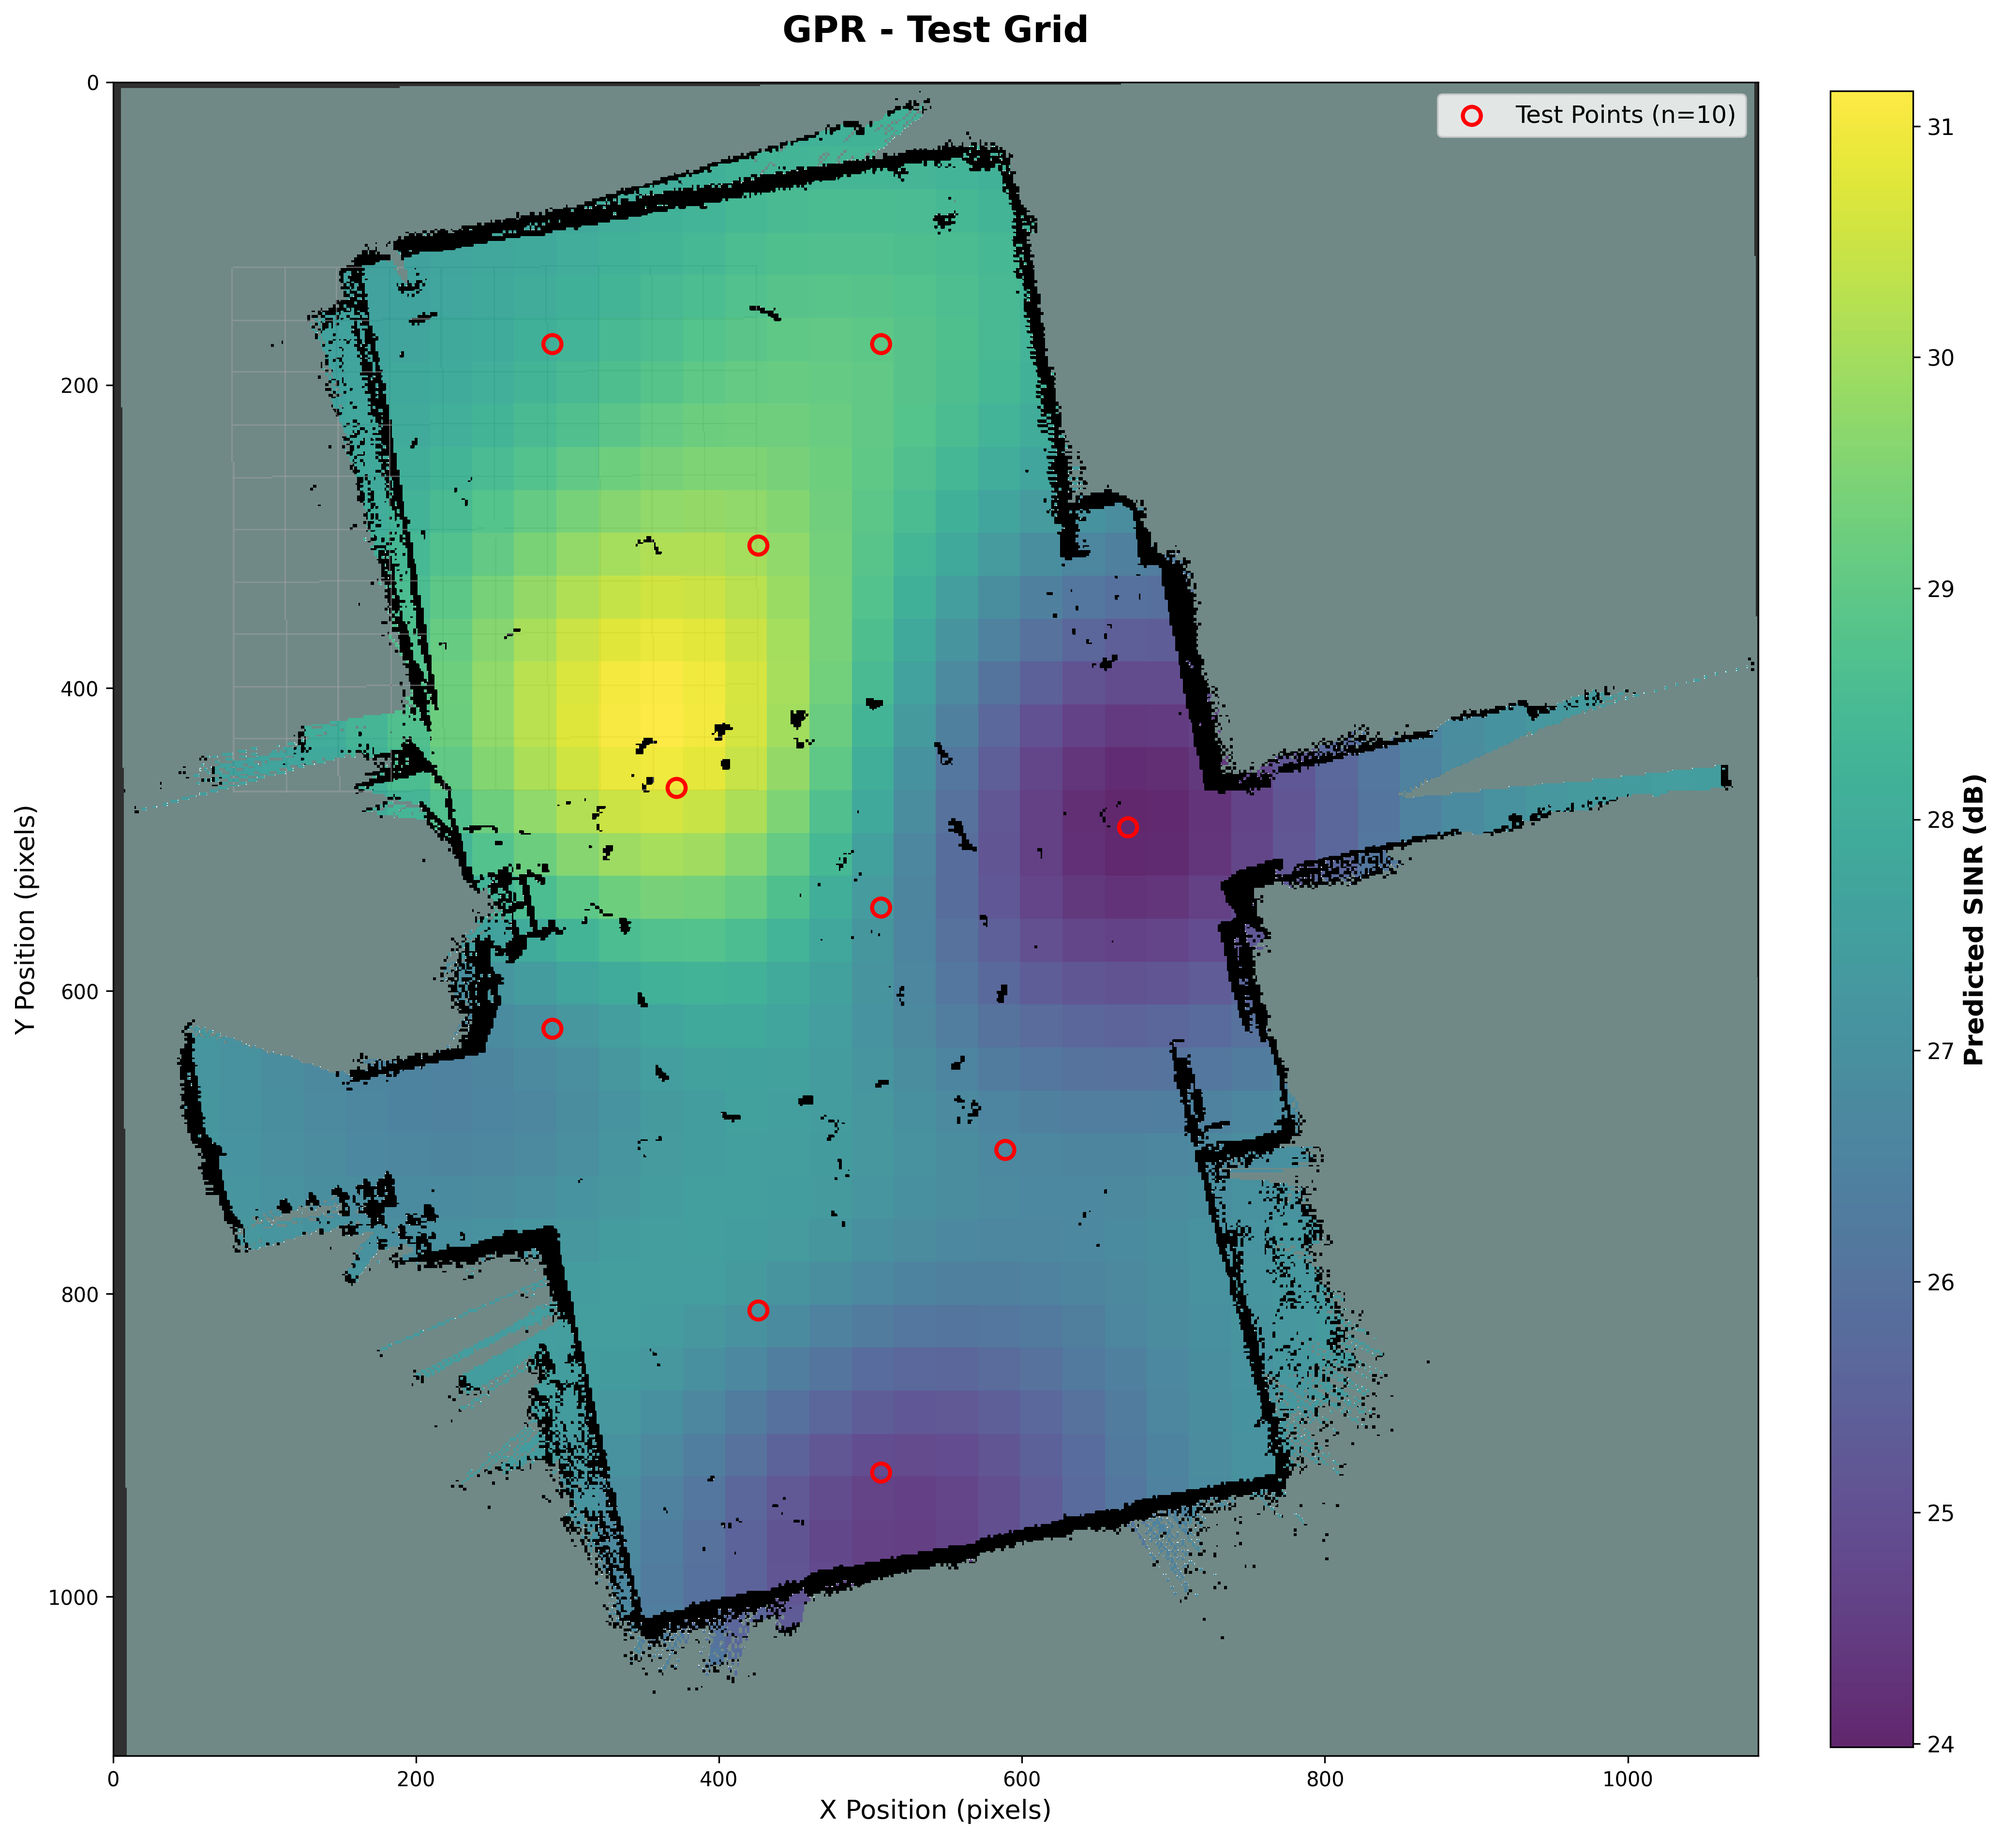
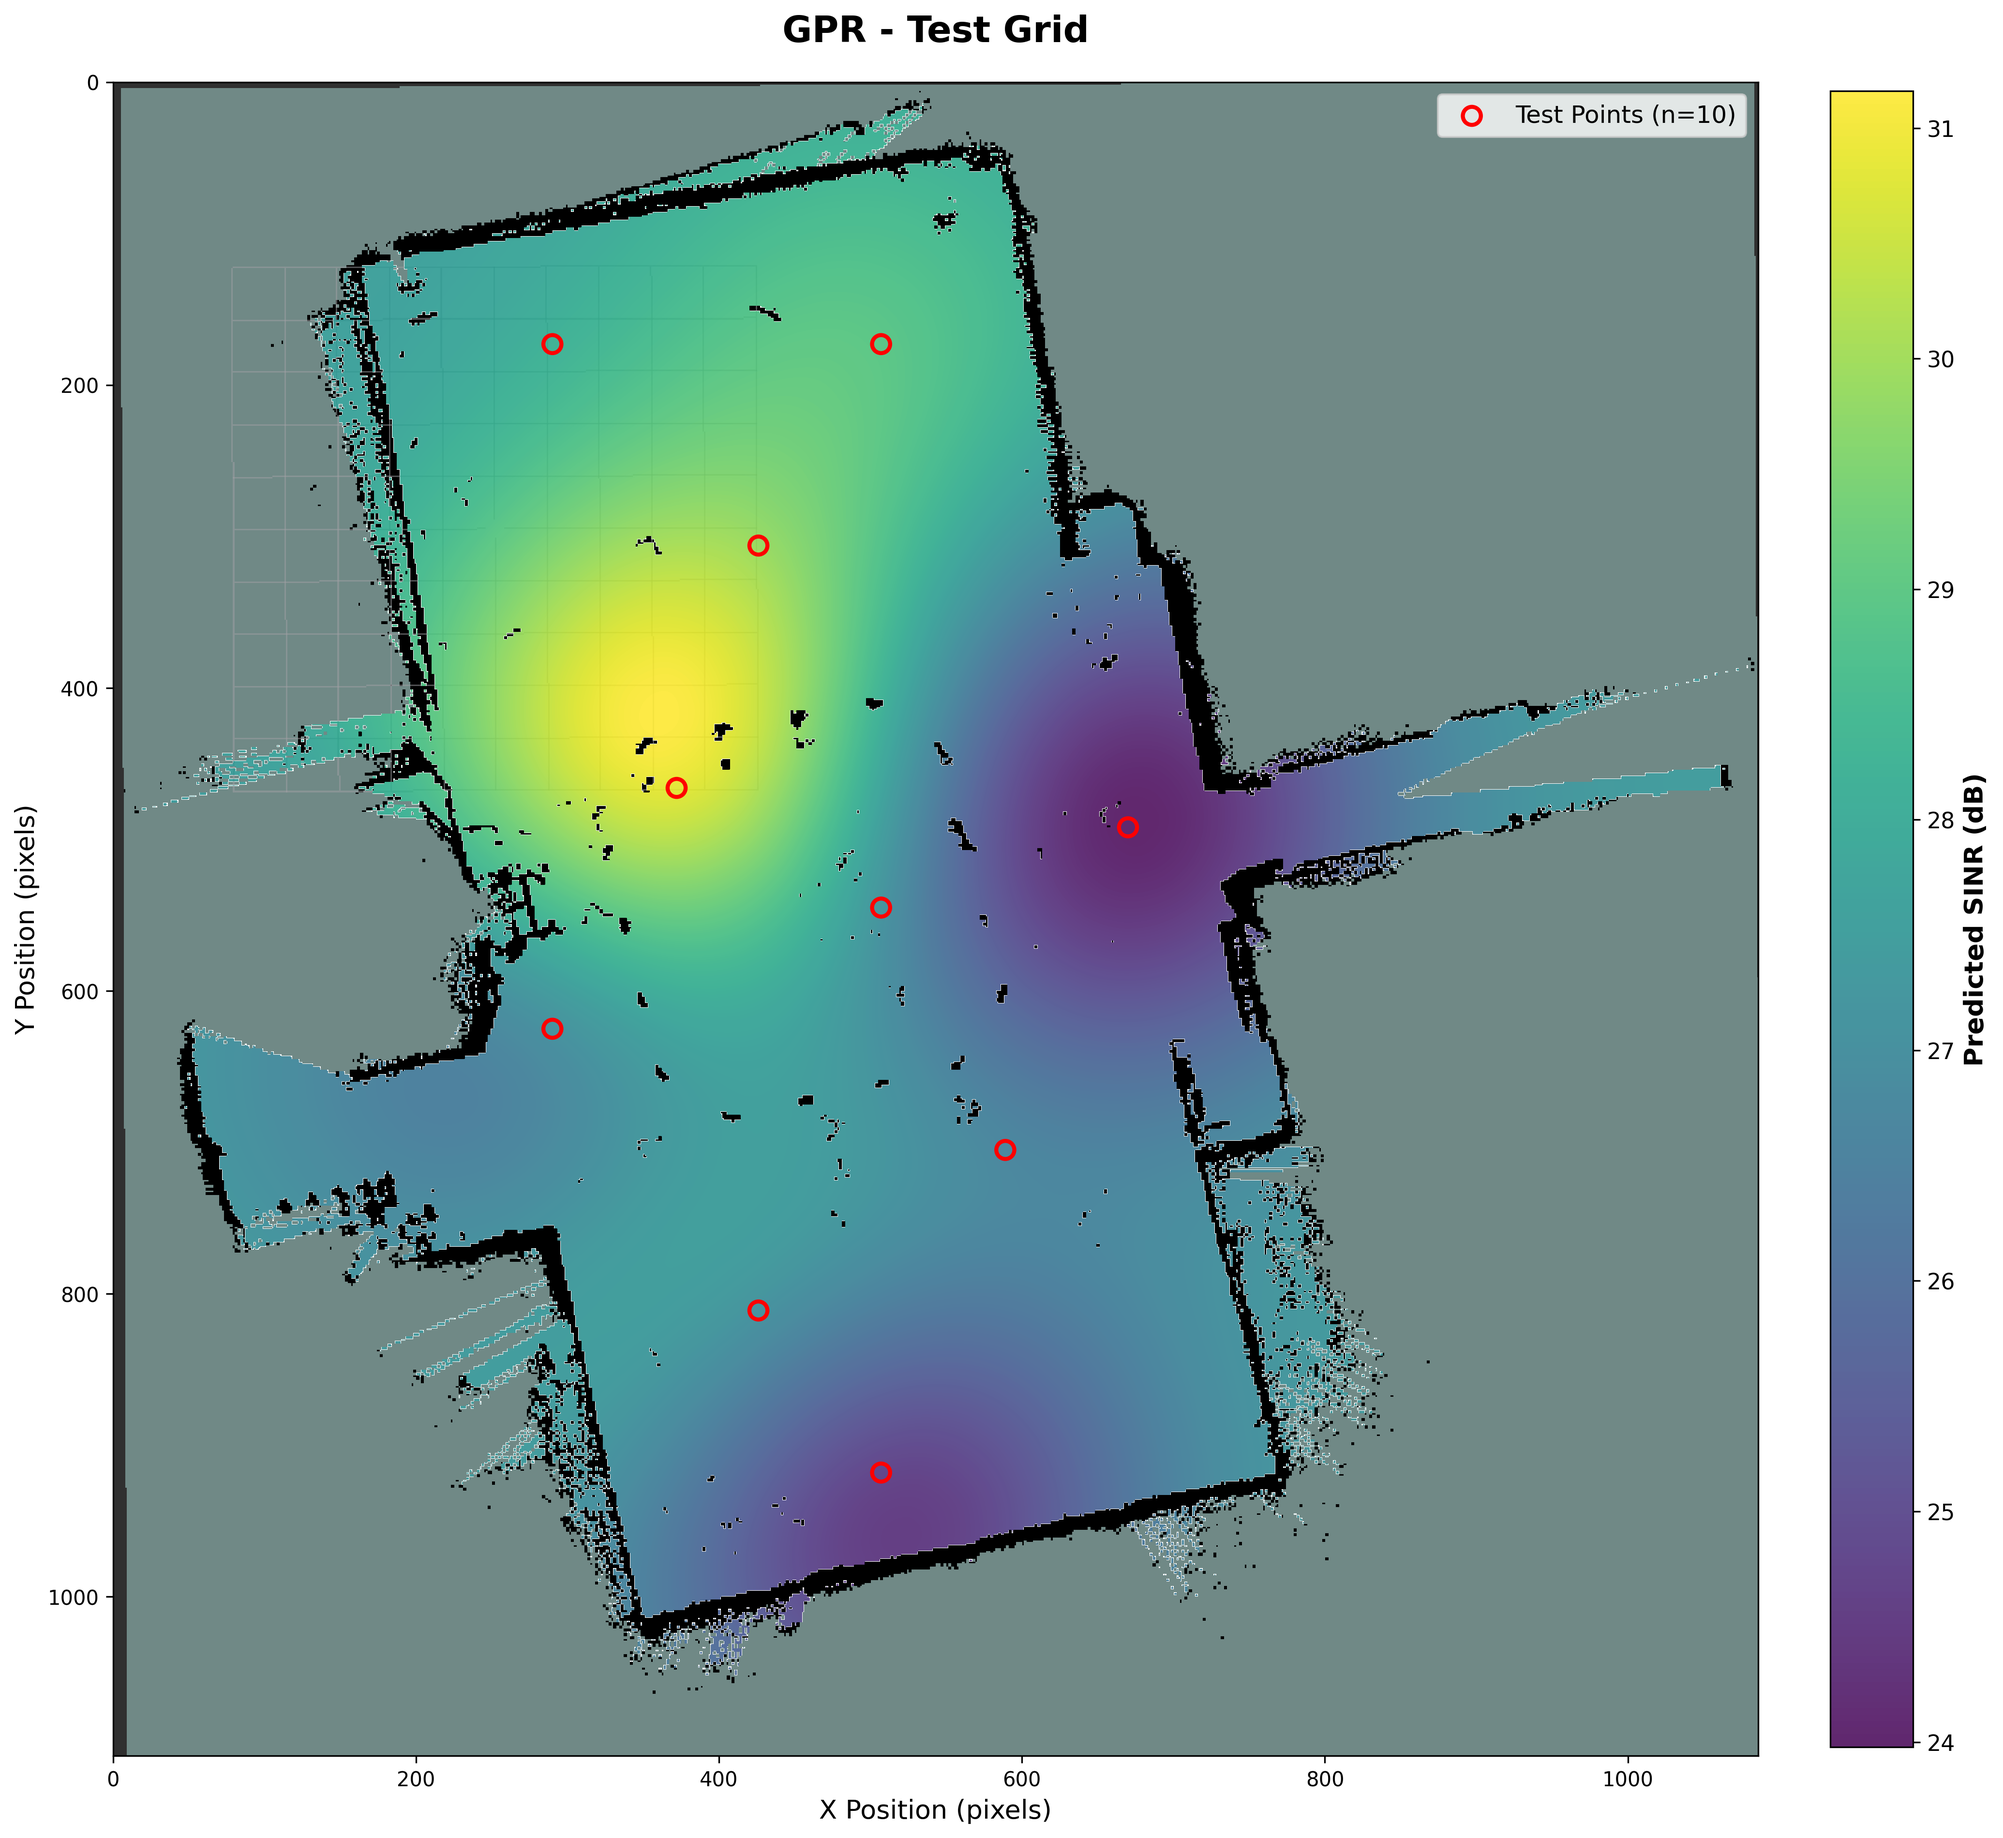
Add files via upload

Changed region(s): [[0.3739, 0.3727, 0.4051, 0.4349], [0.6232, 0.7455, 0.6543, 0.7765]]

diff --git a/Final_Visualisations/Maps_Final.py b/Final_Visualisations/Maps_Final.py
@@ -19,18 +19,68 @@ print(f"  ✓ Map size: {img_w} x {img_h} pixels")
 
 # Define training and test points directly (in pixel coordinates)
 train_points_pixel = np.array([
-    [568, 923], [712, 883], [544, 844], [352, 743], [676, 718],
-    [372, 696], [599, 633], [321, 574], [724, 497], [782, 482],
-    [838, 470], [326, 448], [535, 407], [427, 408], [282, 396],
-    [679, 370], [436, 328], [577, 301], [257, 257], [227, 159],
-    [539, 113], [494, 742], [427, 914], [333, 162], [601, 533],
-    [504, 223], [428, 119], [641, 811], [346, 844], [360, 263]
+    [562, 918],
+    [725, 891],
+    [534, 838],
+    [344, 731],
+    [670, 705],
+    [372, 705],
+    [589, 625],
+    [317, 572],
+    [725, 492],
+    [779, 492],
+    [833, 466],
+    [317, 439],
+    [534, 412],
+    [426, 412],
+    [290, 386],
+    [670, 359],
+    [426, 333],
+    [589, 306],
+    [263, 253],
+    [236, 146],
+    [534, 120],
+    [507, 731],
+    [426, 918],
+    [344, 173],
+    [589, 545],
+    [507, 226],
+    [426, 120],
+    [643, 811],
+    [344, 838],
+    [372, 253]
 ])
+
 
 test_points_pixel = np.array([
     [372, 466], [670, 492], [507, 545], [589, 705], [426, 811],
     [507, 918], [290, 625], [290, 173], [507, 173], [426, 306]
 ])
+
+train_points_pixel_neel = np.array([
+    [568, 923],
+    [712, 883],
+    [544, 844],
+    [352, 743],
+    [676, 718],
+    [372, 696],
+    [599, 633],
+    [321, 574],
+    [724, 497],
+    [782, 482],
+    [838, 470],
+    [326, 448],
+    [535, 407],
+    [427, 408],
+    [282, 396],
+    [679, 370],
+    [436, 328],
+    [577, 301],
+    [257, 257],
+    [227, 159],
+    [539, 113]
+])
+
 
 print(f"  ✓ Training points: {len(train_points_pixel)}")
 print(f"  ✓ Test points: {len(test_points_pixel)}")
@@ -42,7 +92,8 @@ train_pixel_x = train_points_pixel[:, 0]
 train_pixel_y = train_points_pixel[:, 1]
 test_pixel_x = test_points_pixel[:, 0]
 test_pixel_y = test_points_pixel[:, 1]
-
+train_pixel_x_neel = train_points_pixel_neel[:, 0]
+train_pixel_y_neel = train_points_pixel_neel[:, 1]
 # ========== STEP 2: Load prediction grids for all models ==========
 print("\n[2/8] Loading prediction grids...")
 
@@ -261,7 +312,7 @@ print("  ✓ Pixel coordinates added")
 print("\n[6/8] Creating interpolation function...")
 
 def create_interpolated_map(df, img_w, img_h):
-    """Create interpolated heatmap using NEAREST neighbor"""
+    
     if df is None:
         return None
     
@@ -282,7 +333,7 @@ def create_interpolated_map(df, img_w, img_h):
         points, 
         values, 
         (grid_x, grid_y), 
-        method='nearest',
+        method='cubic',
         fill_value=np.nan
     )
     return sinr_interpolated
@@ -329,7 +380,7 @@ print("  ✓ Masks applied")
 # ========== STEP 8: Visualization function ==========
 print("\n[8/8] Generating visualizations...")
 
-def create_visualization(sinr_masked, title, filename, points_x, points_y, point_label, vmin=None, vmax=None):
+def create_visualization(sinr_masked, title, filename, points_x, points_y, point_label, vmin=None, vmax=None, cmap=None):
     """Create visualization with specified measurement points"""
     if sinr_masked is None:
         print(f"  ⊘ Skipped: {filename} (no data)")
@@ -337,6 +388,7 @@ def create_visualization(sinr_masked, title, filename, points_x, points_y, point
  # If vmin or vmax are not provided, compute defaults
     vmin = np.nanmin(sinr_masked) if vmin is None else vmin
     vmax = np.nanmax(sinr_masked) if vmax is None else vmax
+    cmap='viridis' if cmap is None else cmap
     
     fig, ax = plt.subplots(figsize=(16, 16), dpi=150)
     
@@ -344,11 +396,11 @@ def create_visualization(sinr_masked, title, filename, points_x, points_y, point
     
     im = ax.imshow(
         sinr_masked, 
-        cmap='viridis',
+        cmap=cmap,
         origin='upper',
         extent=[0, img_w, img_h, 0],
         alpha=0.85,
-        interpolation='nearest',
+        interpolation='hamming',
         vmin=vmin,
         vmax=vmax
     )
@@ -375,7 +427,7 @@ def create_visualization(sinr_masked, title, filename, points_x, points_y, point
     plt.close()
 
 # Generate all visualizations
-
+"""
 # XGBoost - Prediction Grid (30 training points)
 create_visualization(sinr_xgb_train_masked, 
                     "XGBoost - Prediction Grid",
@@ -389,6 +441,35 @@ create_visualization(sinr_xgb_test_masked,
                     "XGBoost_test.png",
                     test_pixel_x, test_pixel_y, 
                     f"Test Points (n=10)")
+                    """
+# CVAE Mean - Test Grid (10 test points)
+create_visualization(sinr_cvae_test_mu_masked, 
+                    "CVAE Mean - Test Grid",
+                    "CVAE_Mean_test.png",
+                    test_pixel_x, test_pixel_y, 
+                    f"Test Points (n=10)", vmin=24, vmax=30)
+
+# CVAE Std - Test Grid (10 test points)
+create_visualization(sinr_cvae_test_std_masked, 
+                    "CVAE Std - Test Grid",
+                    "CVAE_Std_test.png",
+                    test_pixel_x, test_pixel_y, 
+                    f"Test Points (n=10)",vmin=0, vmax=1.8, cmap='magma' )
+
+
+# CVAE Mean - Prediction Grid (30 training points)
+create_visualization(sinr_cvae_train_mu_masked, 
+                    "CVAE Mean - Prediction Grid",
+                    "CVAE_Mean_train.png",
+                    train_pixel_x, train_pixel_y, 
+                    f"Training Points (n=30)",vmin=24, vmax=30)
+
+# CVAE Std - Prediction Grid (30 training points)
+create_visualization(sinr_cvae_train_std_masked, 
+                    "CVAE Std - Prediction Grid",
+                    "CVAE_Std_train.png",
+                    train_pixel_x, train_pixel_y, 
+                    f"Training Points (n=30)", cmap='magma')
 
 # GPR - Prediction Grid (30 training points)
 create_visualization(sinr_gpr_train_masked, 
@@ -404,48 +485,20 @@ create_visualization(sinr_gpr_test_masked,
                     test_pixel_x, test_pixel_y, 
                     f"Test Points (n=10)")
 
-# CVAE Mean - Prediction Grid (30 training points)
-create_visualization(sinr_cvae_train_mu_masked, 
-                    "CVAE Mean - Prediction Grid",
-                    "CVAE_Mean_train.png",
-                    train_pixel_x, train_pixel_y, 
-                    f"Training Points (n=30)")
-
-# CVAE Std - Prediction Grid (30 training points)
-create_visualization(sinr_cvae_train_std_masked, 
-                    "CVAE Std - Prediction Grid",
-                    "CVAE_Std_train.png",
-                    train_pixel_x, train_pixel_y, 
-                    f"Training Points (n=30)")
-
-# CVAE Mean - Test Grid (10 test points)
-create_visualization(sinr_cvae_test_mu_masked, 
-                    "CVAE Mean - Test Grid",
-                    "CVAE_Mean_test.png",
-                    test_pixel_x, test_pixel_y, 
-                    f"Test Points (n=10)", vmin=24, vmax=30)
-
-# CVAE Std - Test Grid (10 test points)
-create_visualization(sinr_cvae_test_std_masked, 
-                    "CVAE Std - Test Grid",
-                    "CVAE_Std_test.png",
-                    test_pixel_x, test_pixel_y, 
-                    f"Test Points (n=10)",vmin=0, vmax=1.8)
-
 
 # NEEL Mean - Prediction Grid (30 points)
 create_visualization(sinr_neel_mu_masked, 
                     "NEEL Mean - Prediction Grid",
                     "NEEL_Mean_train.png",
-                    train_pixel_x, train_pixel_y, 
-                    f"Training Points (n=30)", vmin=16, vmax=32)
+                    train_pixel_x_neel, train_pixel_y_neel, 
+                    f"Training Points ", vmin=16, vmax=32, cmap='YlOrRd')
 
 # NEEL Std - Prediction Grid (30 points)
 create_visualization(sinr_neel_std_masked, 
                     "NEEL Std - Prediction Grid",
                     "NEEL_Std_train.png",
-                    train_pixel_x, train_pixel_y, 
-                    f"Training Points (n=30)")
+                    train_pixel_x_neel, train_pixel_y_neel,
+                    f"Training Points ", cmap='YlOrRd')
 
 # ========== Summary ==========
 print("\n" + "="*70)
